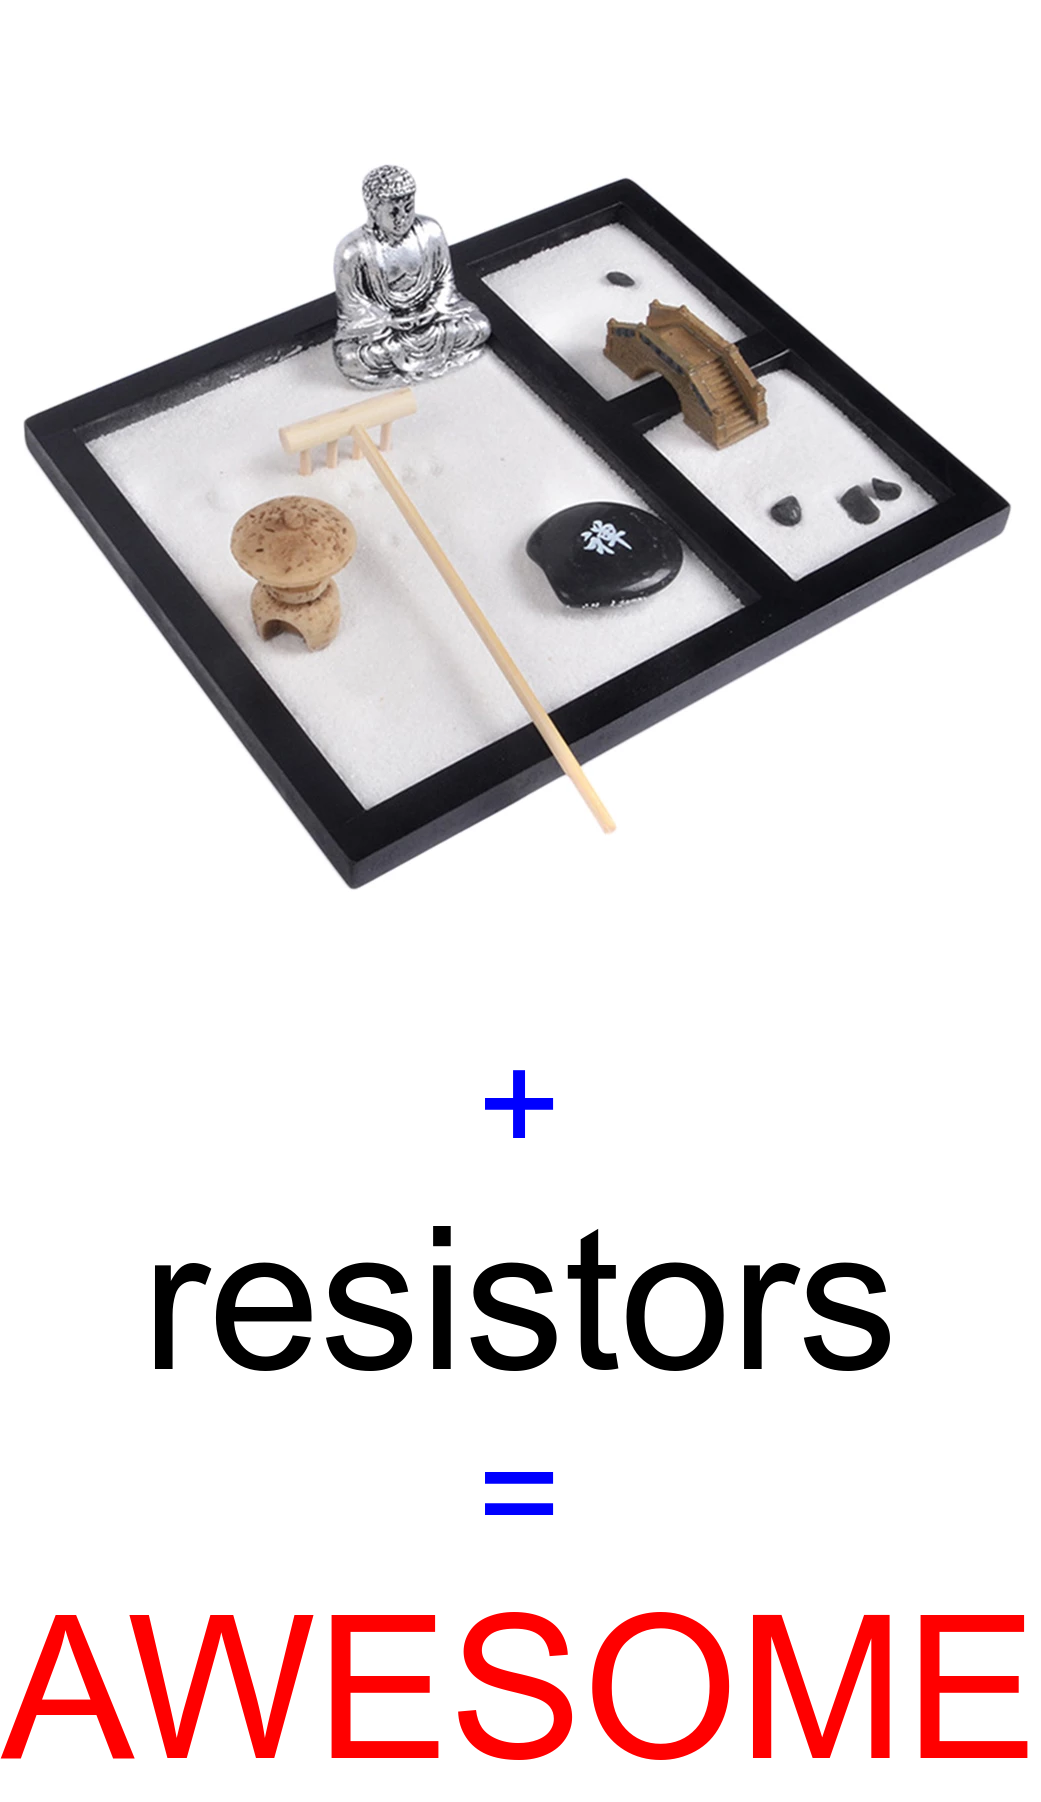
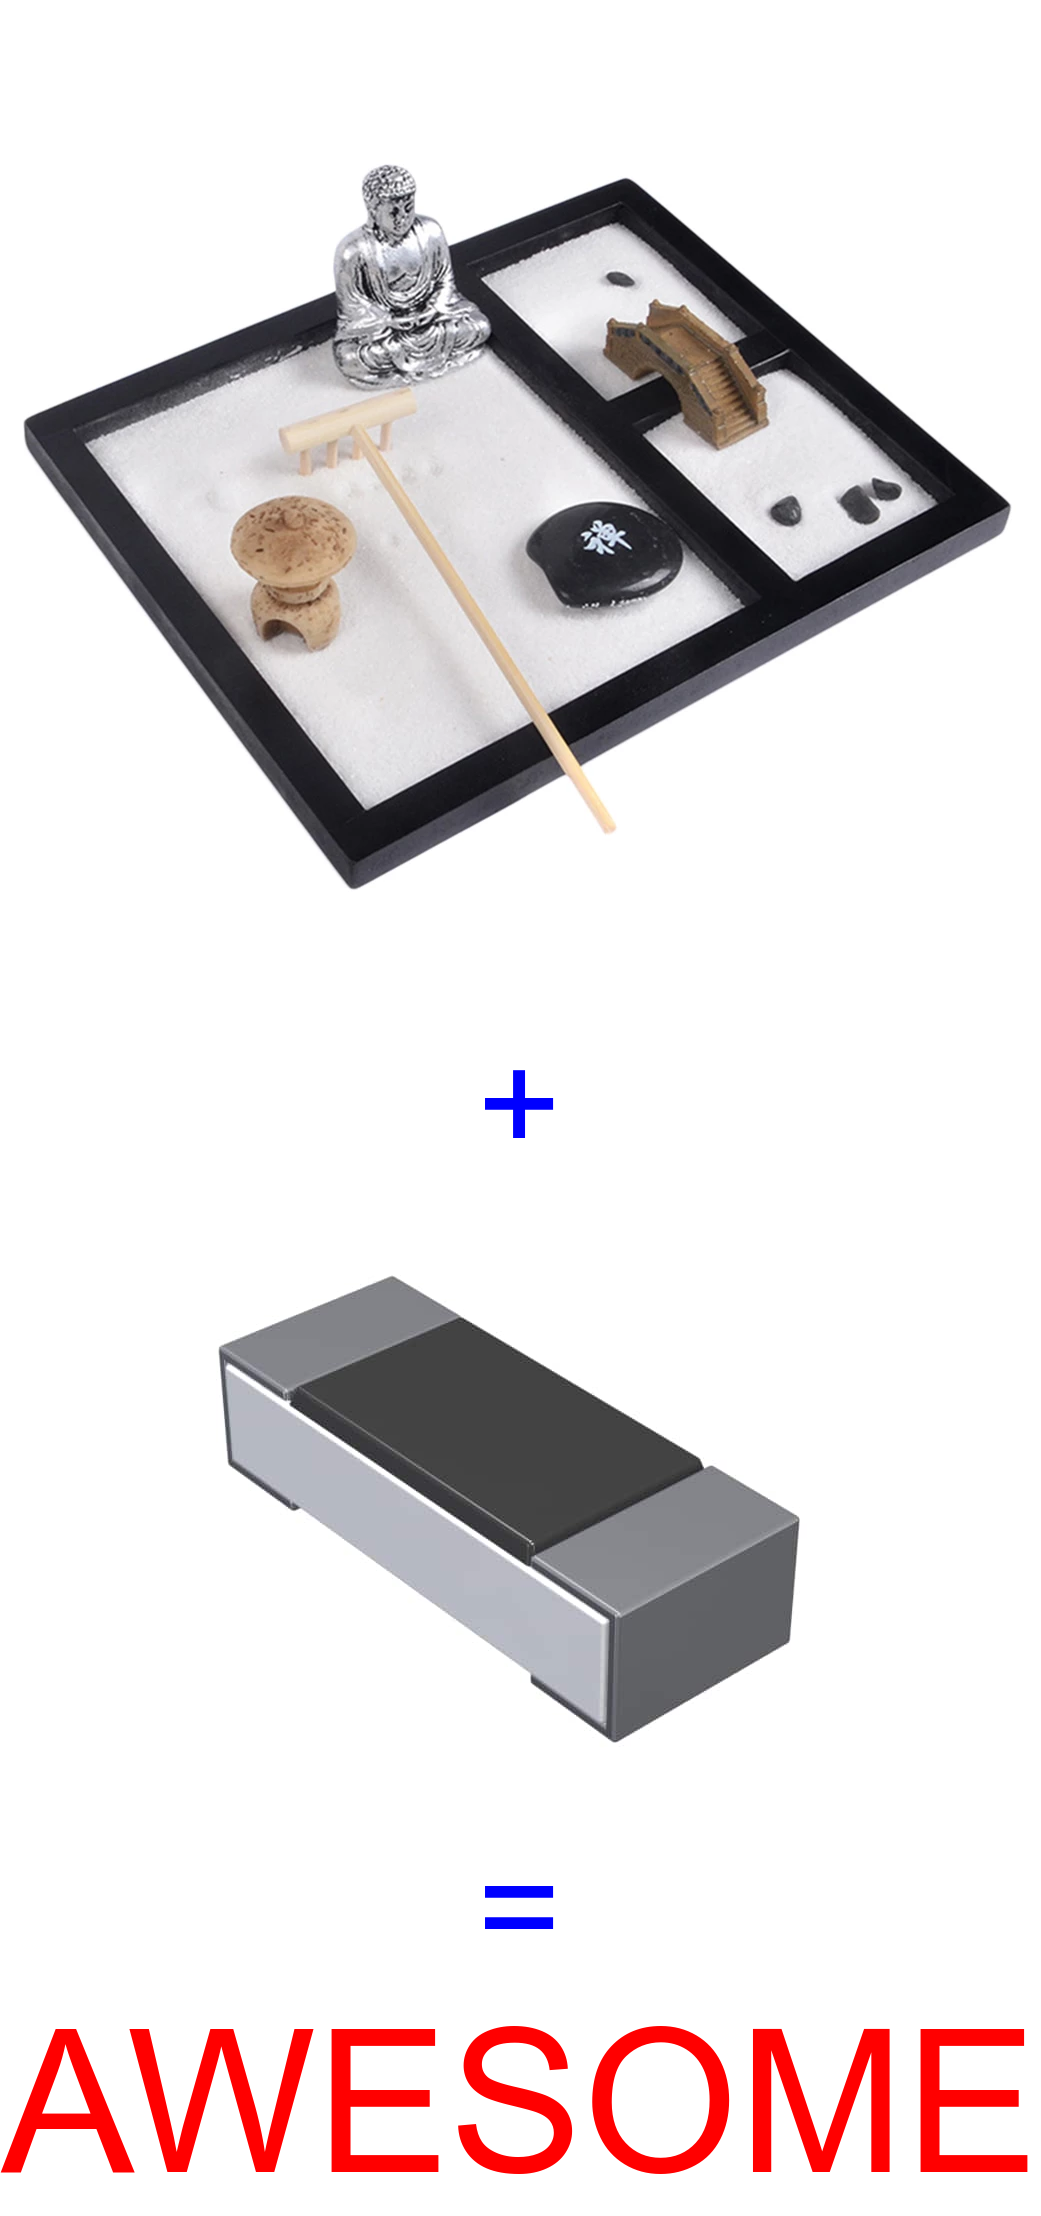
Use resistors from DigiKey

Changed region(s): [[0.0, 0.0622, 0.9837, 0.5283], [0.123, 0.5594, 0.8607, 0.808], [0.0, 0.808, 0.9837, 0.9945]]

diff --git a/Resistor sandbox/README.md b/Resistor sandbox/README.md
@@ -10,3 +10,4 @@ Parts
 
 * 1 x [Children's Miniature Sandbox Wooden Game Silver Buddha Sandbox for Garden and Home Decoration](https://www.aliexpress.com/item/4000628919299.html)
 * .................. resistors ............ ???????????????????????????????????????
+    * I checked all the major suppliers for cheap resistors and ended up using some [270 OHM 0805 from DigiKey](https://www.digikey.com.au/en/products/detail/bourns-inc/CR0805-JW-271ELF/3785284)
